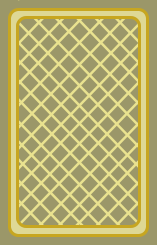
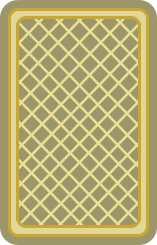
fix card scale and layer, update gameloop almost works

diff --git a/Assets/scripts/AIJackPlayer.cs b/Assets/scripts/AIJackPlayer.cs
@@ -67,7 +67,7 @@ public class AIJackPlayer : JackPlayer
         //TODO SFX Haha!
         Card dealerCard = DeckManager.GetDealerCards()[0];
         if (dealerCard == null) Debug.LogError("DEALER A PAS DE CARTE WTFF");
-        bool hit = aiDecision.Pige(hand, DeckManager.GetAllCardsOnTable(), dealerCard); //table_hand inclut la main du joueur et du dealer
+        bool hit = aiDecision.Pige(DeckManager.GetCardsForPlayer(this), DeckManager.GetAllCardsOnTable(), dealerCard); //table_hand inclut la main du joueur et du dealer
         JackDecision decision = hit ? JackDecision.Hit : JackDecision.Hold;
         OnDecideEnd.Invoke(decision);
         
@@ -115,7 +115,6 @@ public class AIJackPlayer : JackPlayer
 
     #region Events
     protected UnityEvent OnBetEnd;
-    protected UnityEvent OnDrawCardEnd;
     protected UnityEvent<JackDecision> OnDecideEnd;
     protected UnityEvent OnLose;
 
@@ -123,12 +122,6 @@ public class AIJackPlayer : JackPlayer
     {
         if (OnBetEnd == null) OnBetEnd = new UnityEvent();
         OnBetEnd.AddListener(action);
-    }
-
-    public void AddOnDrawCardEndListener(UnityAction action)
-    {
-        if (OnDrawCardEnd == null) OnDrawCardEnd = new UnityEvent();
-        OnDrawCardEnd.AddListener(action);
     }
 
     public void AddOnDecideEndListener(UnityAction<JackDecision> action)
@@ -146,7 +139,6 @@ public class AIJackPlayer : JackPlayer
     {
         base.RemoveRoundListeners();
         OnBetEnd.RemoveAllListeners();
-        OnDrawCardEnd.RemoveAllListeners();
         OnDecideEnd.RemoveAllListeners();
         OnCardAskComplete.RemoveAllListeners();
     }

diff --git a/Assets/scripts/JackPlayer.cs b/Assets/scripts/JackPlayer.cs
@@ -5,7 +5,6 @@ using UnityEngine.Events;
 
 public class JackPlayer : MonoBehaviour
 {
-    public List<Card> hand;
     public List<CardHolder> holders;
     public HoldersManager holderManager;
     public int money;
